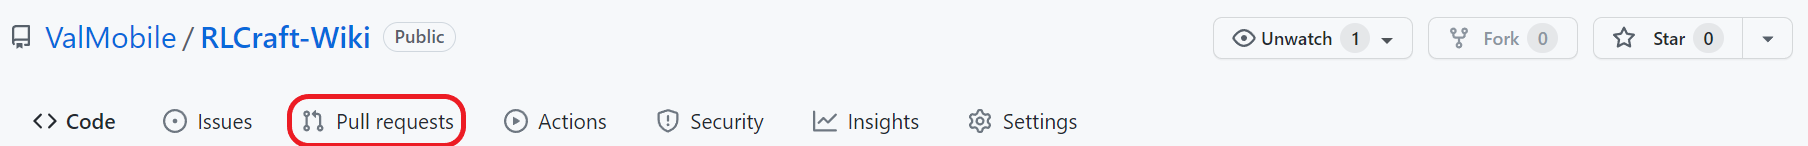
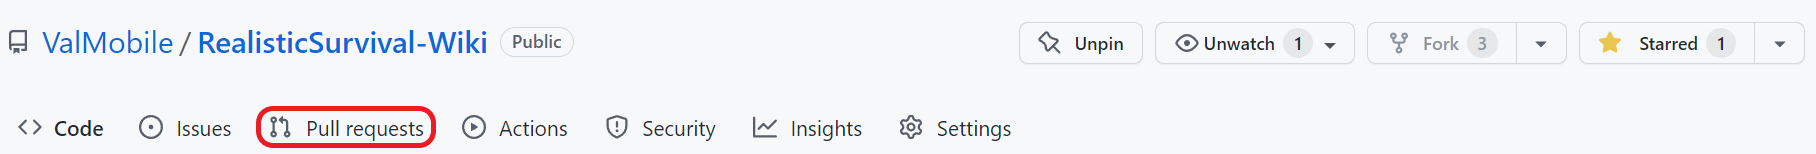
Updated images in contributing to wiki page to use Realistic Survival name

diff --git a/pages/Editing-Item-YML-Files.md b/pages/Editing-Item-YML-Files.md
@@ -2,7 +2,11 @@ Editing item meta data in the various item.YML files requires strict adherence t
 
 This guide assumes that you have already read and understood the general; otherwise, start by reading [this](https://github.com/ValMobile/RealisticSurvival/wiki/Editing-Config-Files).
 
-## Realistic Survival Naming Conventions
+## Naming Conventions
+
+### Realistic Survival
+
+### Spigot
 
 
 

diff --git a/README.md b/README.md
@@ -1,4 +1,4 @@
-# Realistic Survival-Wiki
+# Realistic Survival Wiki
 This Repository houses Realistic Survival's wiki.<br>
 It is automatically synchronized with the main wiki, which you can find here:
 https://github.com/ValMobile/RealisticSurvival/wiki
